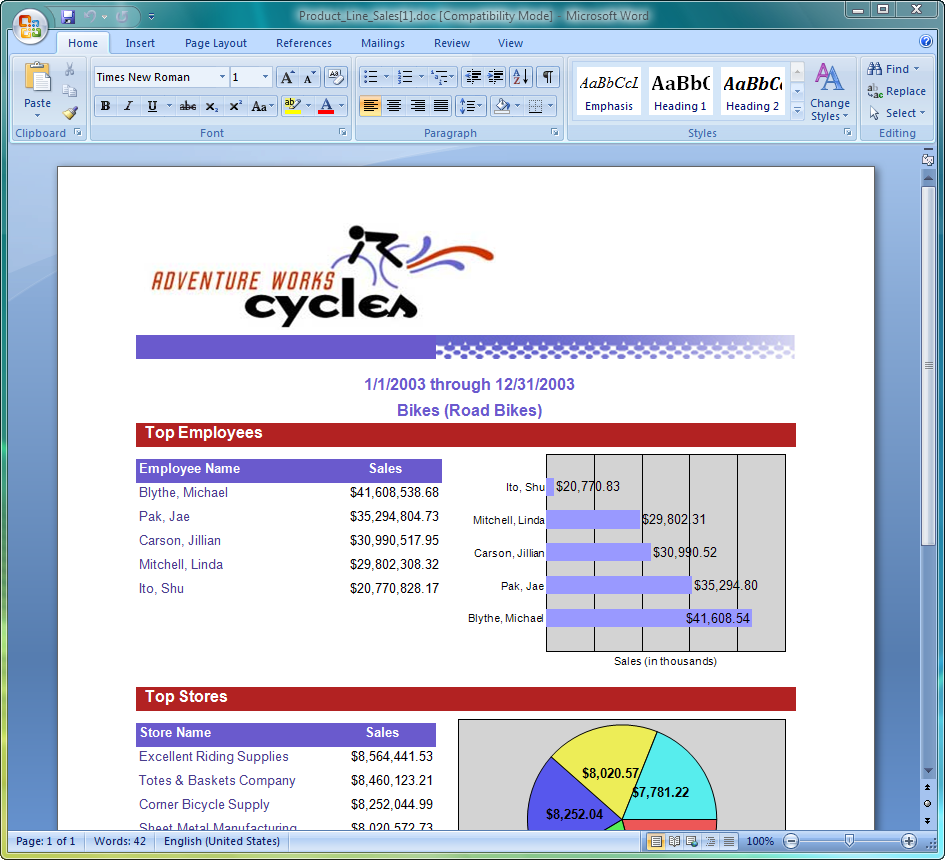
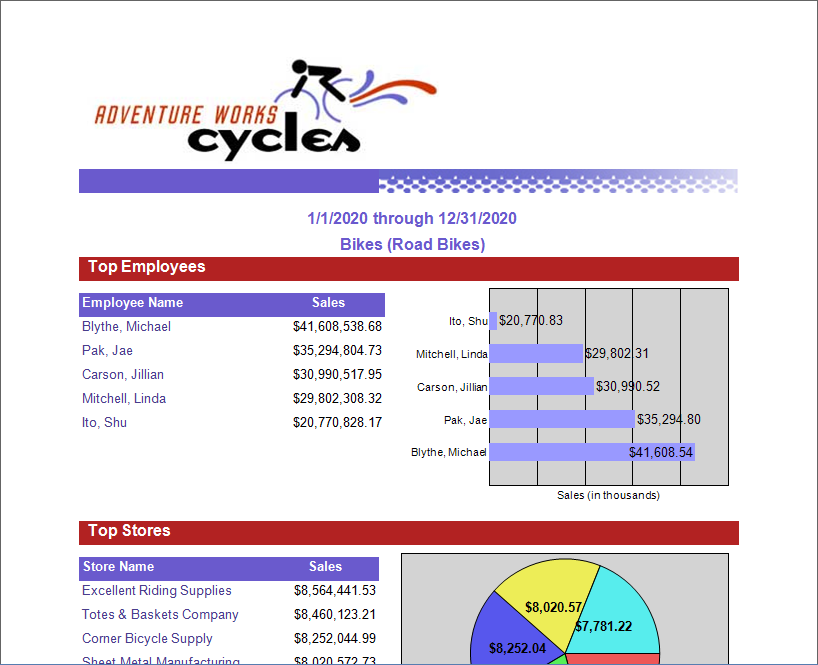
Sample gallery rs old imgs (#81)
* Updating old images.

* Updated old images on the "Sample Gallery" page.

diff --git a/reportingservices/getting-started/sample-gallery/_index.md b/reportingservices/getting-started/sample-gallery/_index.md
@@ -13,39 +13,28 @@ Most of the reports shown here come from the AdventureWorks database. AdventureW
 
 {{% /alert %}} 
 
-**Company Sales: RTF, matrix (grows vertically and horizontally), background image.** 
+**Company Sales: RTF, matrix (grows vertically and horizontally), background image.**
 
-![todo:image_alt_text](sample-gallery_1.png)
+<img src="sample-gallery_1.png" alt="sample-gallery_1" style="width:800px"/>
 
+**Employee Sales Summary: DOC, charts, images, textboxes, tables.**
 
+<img src="sample-gallery_2.png" alt="sample-gallery_2" style="width:800px"/>
 
+**Product Catalog: DOC, title page, images, headers, footers, rectangles, lines, subreports.**
 
-**Employee Sales Summary: DOC, charts, images, textboxes, tables.** 
+<img src="sample-gallery_3.png" alt="sample-gallery_3" style="width:800px"/>
 
-![todo:image_alt_text](sample-gallery_2.png)
+<img src="sample-gallery_4.png" alt="sample-gallery_4" style="width:800px"/>
 
+**Product Line Sales: DOC, charts, subreports, images, lists.**
 
+<img src="sample-gallery_5.png" alt="sample-gallery_5" style="width:800px"/>
 
-**Product Catalog: DOC, title page, images, headers, footers, rectangles, lines, subreports.** 
+**Sales Order Detail: WordML, tables, styles, rectangles, textboxes, images.**
 
-![todo:image_alt_text](sample-gallery_3.png)
+<img src="sample-gallery_6.png" alt="sample-gallery_6" style="width:800px"/>
 
-![todo:image_alt_text](sample-gallery_4.png)
+**Third Party Controls: OOXML, textboxes, Dundas Chart for Reporting Services in the report.**
 
-
-
-**Product Line Sales: DOC, charts, subreports, images, lists.** 
-
-![todo:image_alt_text](sample-gallery_5.png)
-
-
-
-**Sales Order Detail: WordML, tables, styles, rectangles, textboxes, images.** 
-
-![todo:image_alt_text](sample-gallery_6.png)
-
-
-
-**Third Party Controls: OOXML, textboxes, Dundas Chart for Reporting Services in the report.** 
-
-![todo:image_alt_text](sample-gallery_7.png)
+<img src="sample-gallery_7.png" alt="sample-gallery_7" style="width:800px"/>
